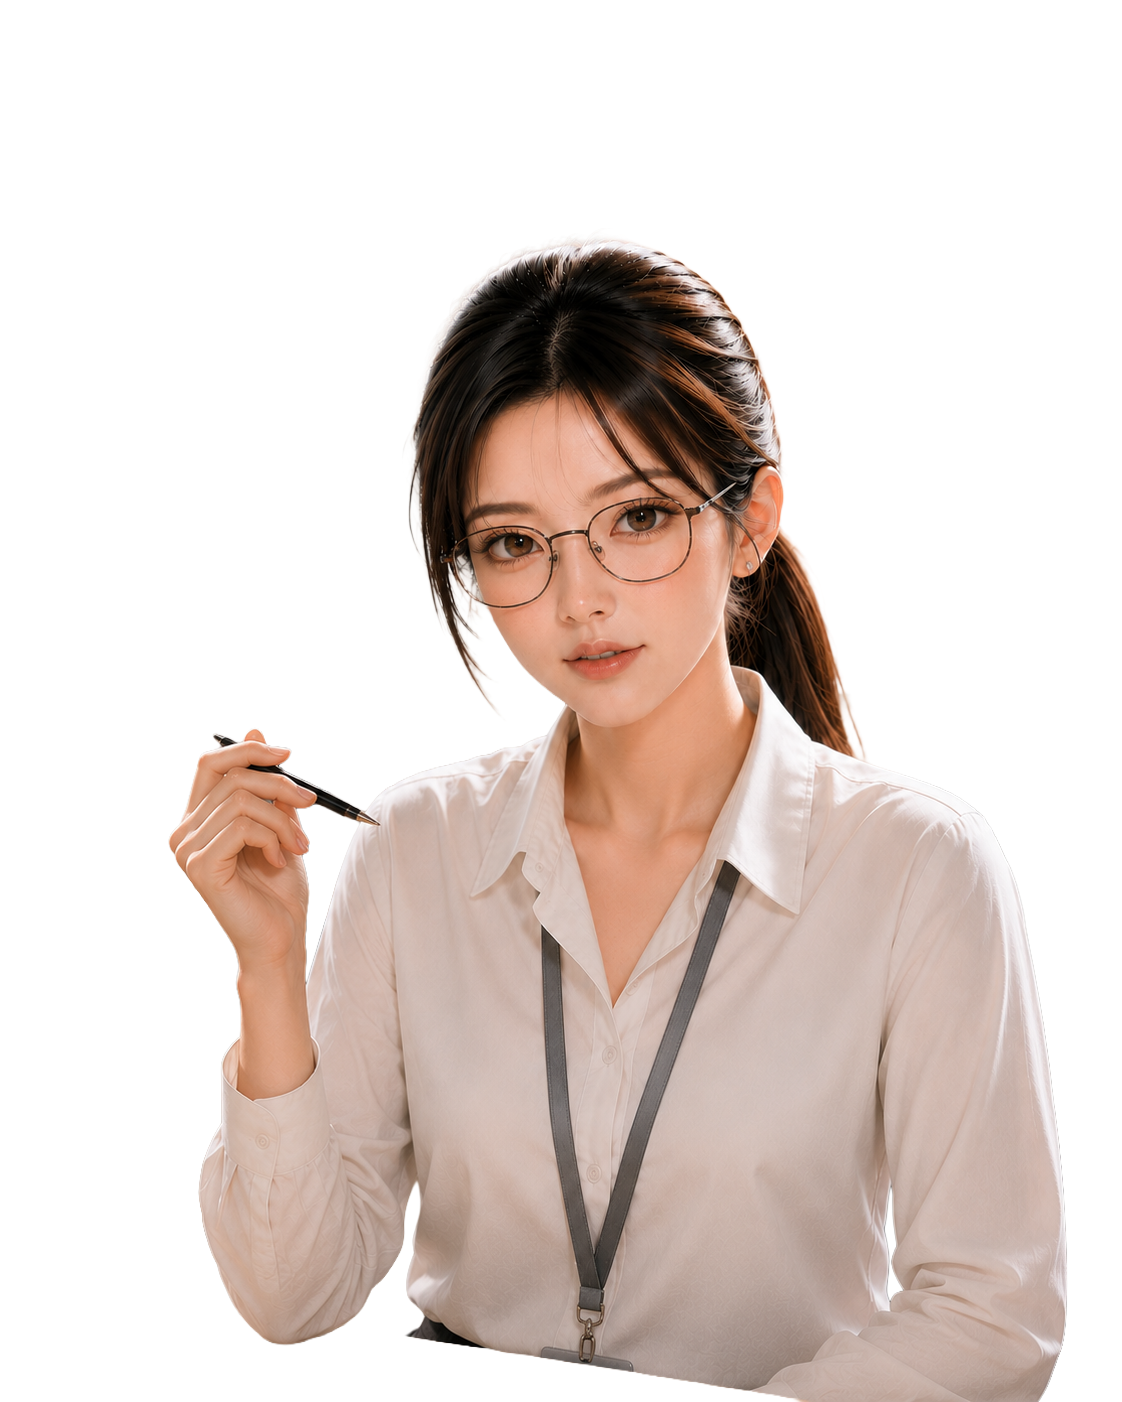
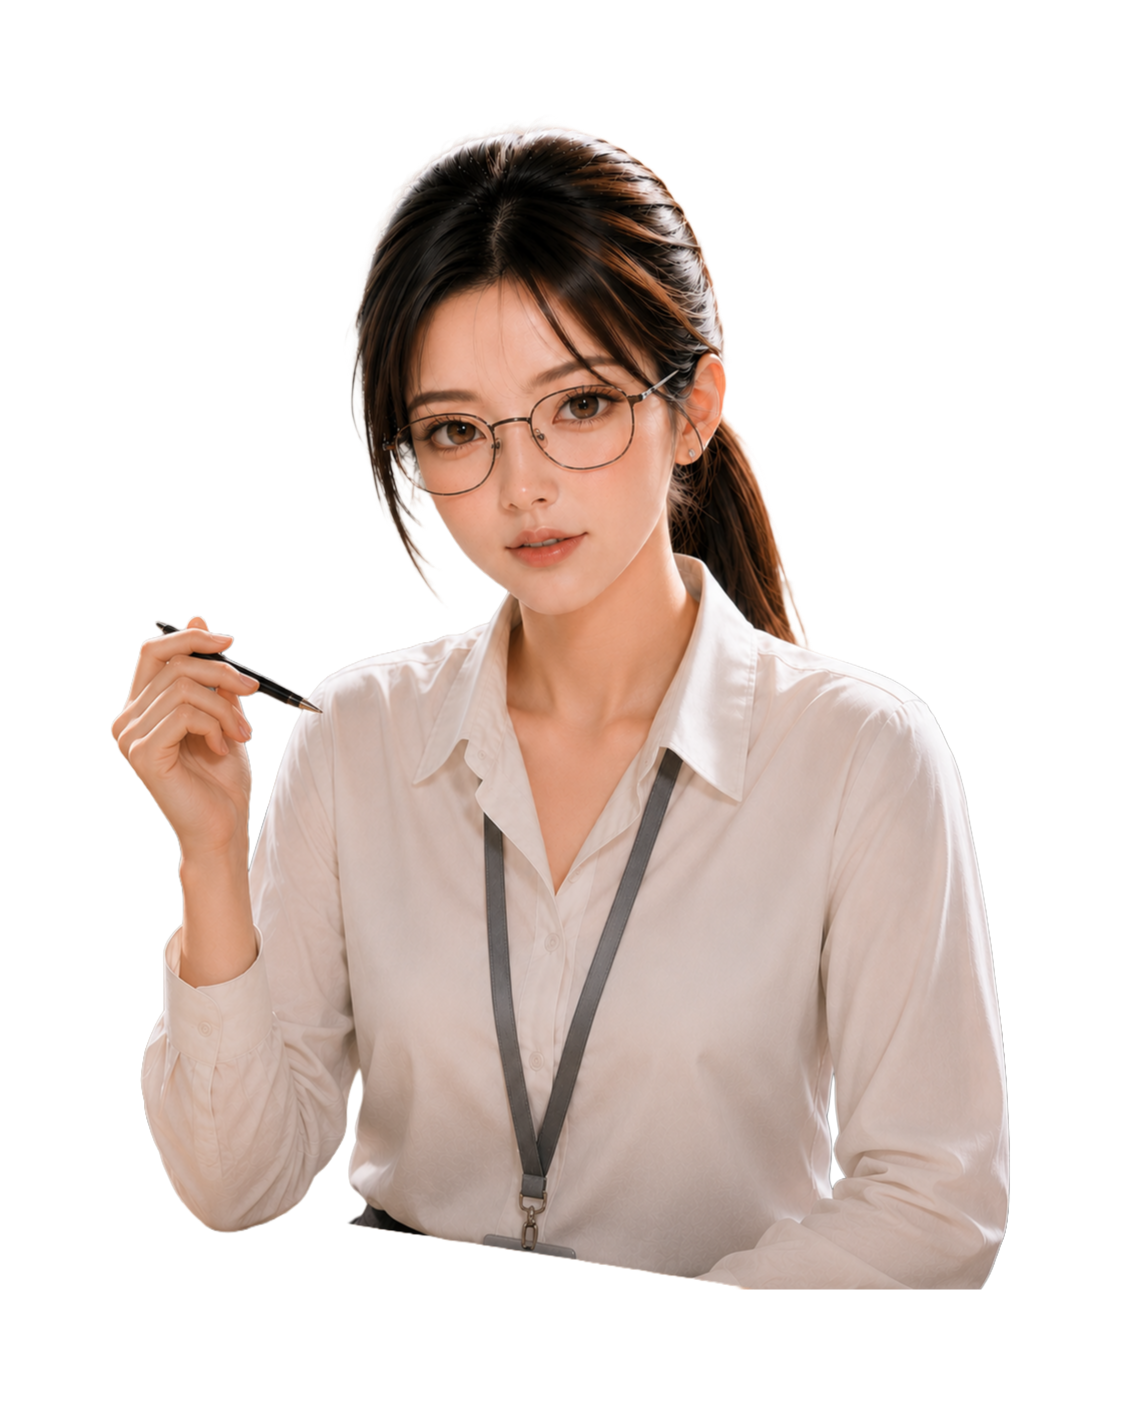
Sync chat progress with today goals

diff --git a/lib/screens/main_tab_screen.dart b/lib/screens/main_tab_screen.dart
@@ -1569,12 +1569,12 @@ class _MainTabScreenState extends State<MainTabScreen>
 
   Widget _buildPlannerHelpAction({bool isVacation = false}) {
     final foreground = isVacation ? Colors.white : AppDesignTokens.brandMuted;
-    final background = isVacation
-        ? AppDesignTokens.brand.withOpacity(0.26)
-        : AppDesignTokens.brandSoft;
     final border = isVacation
         ? Colors.white.withOpacity(0.30)
         : AppDesignTokens.brandCardBorder;
+    final shadowColor = isVacation
+        ? Colors.black.withOpacity(0.16)
+        : AppDesignTokens.brand.withOpacity(0.16);
 
     return Padding(
       padding: const EdgeInsets.only(right: 18),
@@ -1592,20 +1592,60 @@ class _MainTabScreenState extends State<MainTabScreen>
                 height: 35,
                 decoration: BoxDecoration(
                   shape: BoxShape.circle,
-                  color: background,
+                  gradient: LinearGradient(
+                    begin: Alignment.topLeft,
+                    end: Alignment.bottomRight,
+                    colors: isVacation
+                        ? [
+                            Colors.white.withOpacity(0.30),
+                            AppDesignTokens.brand.withOpacity(0.32),
+                            AppDesignTokens.brand.withOpacity(0.46),
+                          ]
+                        : const [
+                            Color(0xFFFFFEFF),
+                            Color(0xFFF5F0FF),
+                            Color(0xFFE9DFFF),
+                          ],
+                    stops: const [0.0, 0.55, 1.0],
+                  ),
                   border: Border.all(color: border, width: 1.1),
                   boxShadow: [
                     BoxShadow(
-                      color: AppDesignTokens.brand.withOpacity(0.09),
-                      blurRadius: 12,
-                      offset: const Offset(0, 5),
+                      color: shadowColor,
+                      blurRadius: 14,
+                      offset: const Offset(0, 6),
+                    ),
+                    BoxShadow(
+                      color: Colors.white.withOpacity(isVacation ? 0.14 : 0.70),
+                      blurRadius: 8,
+                      offset: const Offset(-3, -3),
                     ),
                   ],
                 ),
-                child: Icon(
-                  Icons.question_mark_rounded,
-                  color: foreground,
-                  size: 18,
+                child: Stack(
+                  children: [
+                    Positioned(
+                      top: 6,
+                      left: 8,
+                      child: Container(
+                        width: 12,
+                        height: 6,
+                        decoration: BoxDecoration(
+                          color: Colors.white.withOpacity(
+                            isVacation ? 0.20 : 0.74,
+                          ),
+                          borderRadius: BorderRadius.circular(999),
+                        ),
+                      ),
+                    ),
+                    Center(
+                      child: Icon(
+                        Icons.question_mark_rounded,
+                        color: foreground,
+                        size: 18,
+                      ),
+                    ),
+                  ],
                 ),
               ),
             ),
@@ -1806,6 +1846,7 @@ class _MainTabScreenState extends State<MainTabScreen>
         coachId: widget.coachId,
         controller: _tasksController,
         initialBottomSheet: widget.initialBottomSheet,
+        onProgressChanged: _chatController.refreshTaskProgress,
         onCoreTaskSet: (msg) {
           // 핵심 설정 완료 시 채팅창에 비서 반응 메시지 주입
           setState(() => _openDrawerIndex = 0);

diff --git a/lib/screens/chat_screen.dart b/lib/screens/chat_screen.dart
@@ -461,8 +461,10 @@ class _ChatScreenState extends State<ChatScreen>
   Future<void> _loadTaskProgress() async {
     try {
       final prefs = await SharedPreferences.getInstance();
+      final todayStr = _getTodayStrWithReset(prefs);
       final raw = prefs.getString('nyang_tasks') ?? '[]';
       final List<dynamic> list = jsonDecode(raw);
+      final milestones = _todayMilestoneProgressItems(prefs, todayStr);
 
       int total = 0;
       int completed = 0;
@@ -470,6 +472,12 @@ class _ChatScreenState extends State<ChatScreen>
       for (var item in list) {
         total++;
         if (item['done'] == true) {
+          completed++;
+        }
+      }
+      for (final milestone in milestones) {
+        total++;
+        if (milestone['done'] == true) {
           completed++;
         }
       }
@@ -482,6 +490,36 @@ class _ChatScreenState extends State<ChatScreen>
       }
     } catch (e) {
       debugPrint('Error loading tasks: $e');
+    }
+  }
+
+  List<Map<String, dynamic>> _todayMilestoneProgressItems(
+    SharedPreferences prefs,
+    String todayStr,
+  ) {
+    final rawVisions = prefs.getString('nyang_visions');
+    if (rawVisions == null) return const <Map<String, dynamic>>[];
+
+    try {
+      final decoded = jsonDecode(rawVisions);
+      if (decoded is! List) return const <Map<String, dynamic>>[];
+
+      final result = <Map<String, dynamic>>[];
+      for (final vision in decoded) {
+        if (vision is! Map) continue;
+        final milestones = vision['milestones'];
+        if (milestones is! List) continue;
+
+        for (final milestone in milestones) {
+          if (milestone is! Map) continue;
+          if (milestone['date'] == todayStr) {
+            result.add(Map<String, dynamic>.from(milestone));
+          }
+        }
+      }
+      return result;
+    } catch (_) {
+      return const <Map<String, dynamic>>[];
     }
   }
 

diff --git a/lib/screens/tasks_screen.dart b/lib/screens/tasks_screen.dart
@@ -462,12 +462,14 @@ class VisionItem {
 class TasksScreen extends StatefulWidget {
   final String coachId;
   final void Function(String message)? onCoreTaskSet;
+  final VoidCallback? onProgressChanged;
   final TasksScreenController? controller;
   final String? initialBottomSheet;
   const TasksScreen({
     super.key,
     required this.coachId,
     this.onCoreTaskSet,
+    this.onProgressChanged,
     this.controller,
     this.initialBottomSheet,
   });
@@ -1142,6 +1144,7 @@ class _TasksScreenState extends State<TasksScreen>
     );
     await _saveTodayRecord();
     await WidgetSyncService.syncFromStoredTasks();
+    widget.onProgressChanged?.call();
     TasksSyncService.scheduleSyncToCloud();
   }
 
@@ -1266,6 +1269,7 @@ class _TasksScreenState extends State<TasksScreen>
     );
     TasksSyncService.scheduleSyncToCloud();
     await WidgetSyncService.syncFromStoredTasks();
+    widget.onProgressChanged?.call();
   }
 
   String _formatAchievedDate([DateTime? value]) {
@@ -1306,6 +1310,7 @@ class _TasksScreenState extends State<TasksScreen>
     // 일정 변경 시 오늘의 할 일 탭에도 즉시 반영
     _injectTodaySchedules();
     await NotificationService().syncCoreReminders();
+    widget.onProgressChanged?.call();
   }
 
   Future<bool> _hasActivePlan() async {